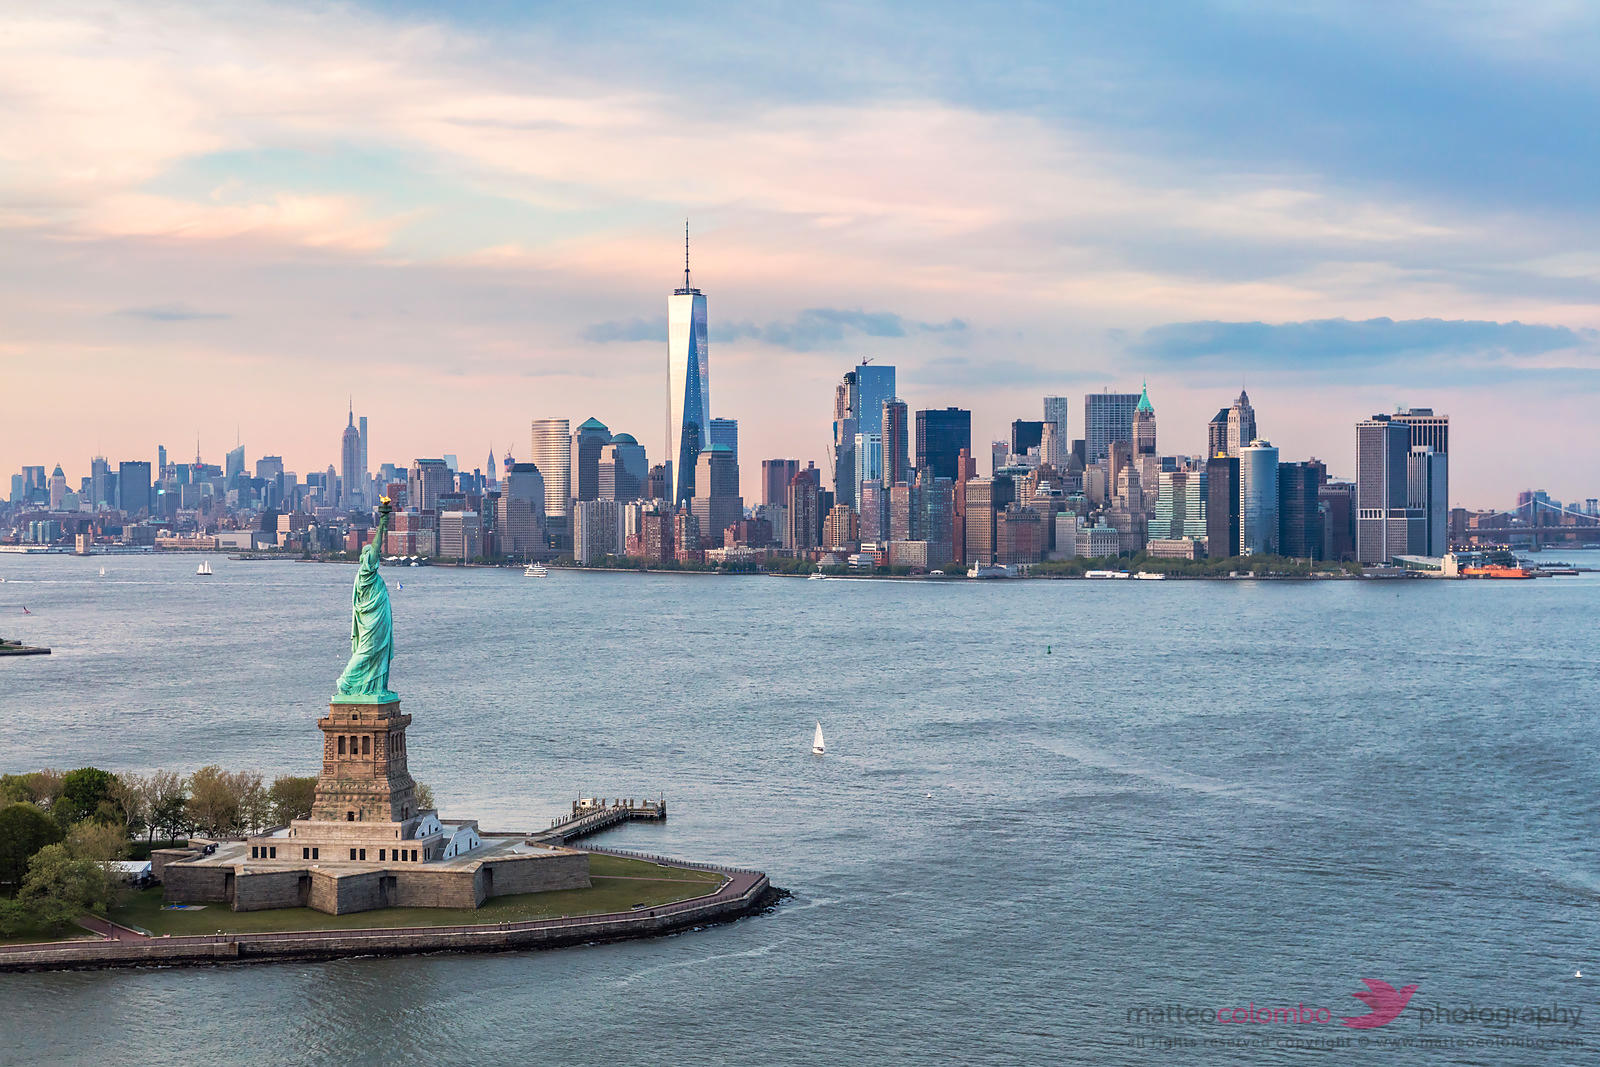
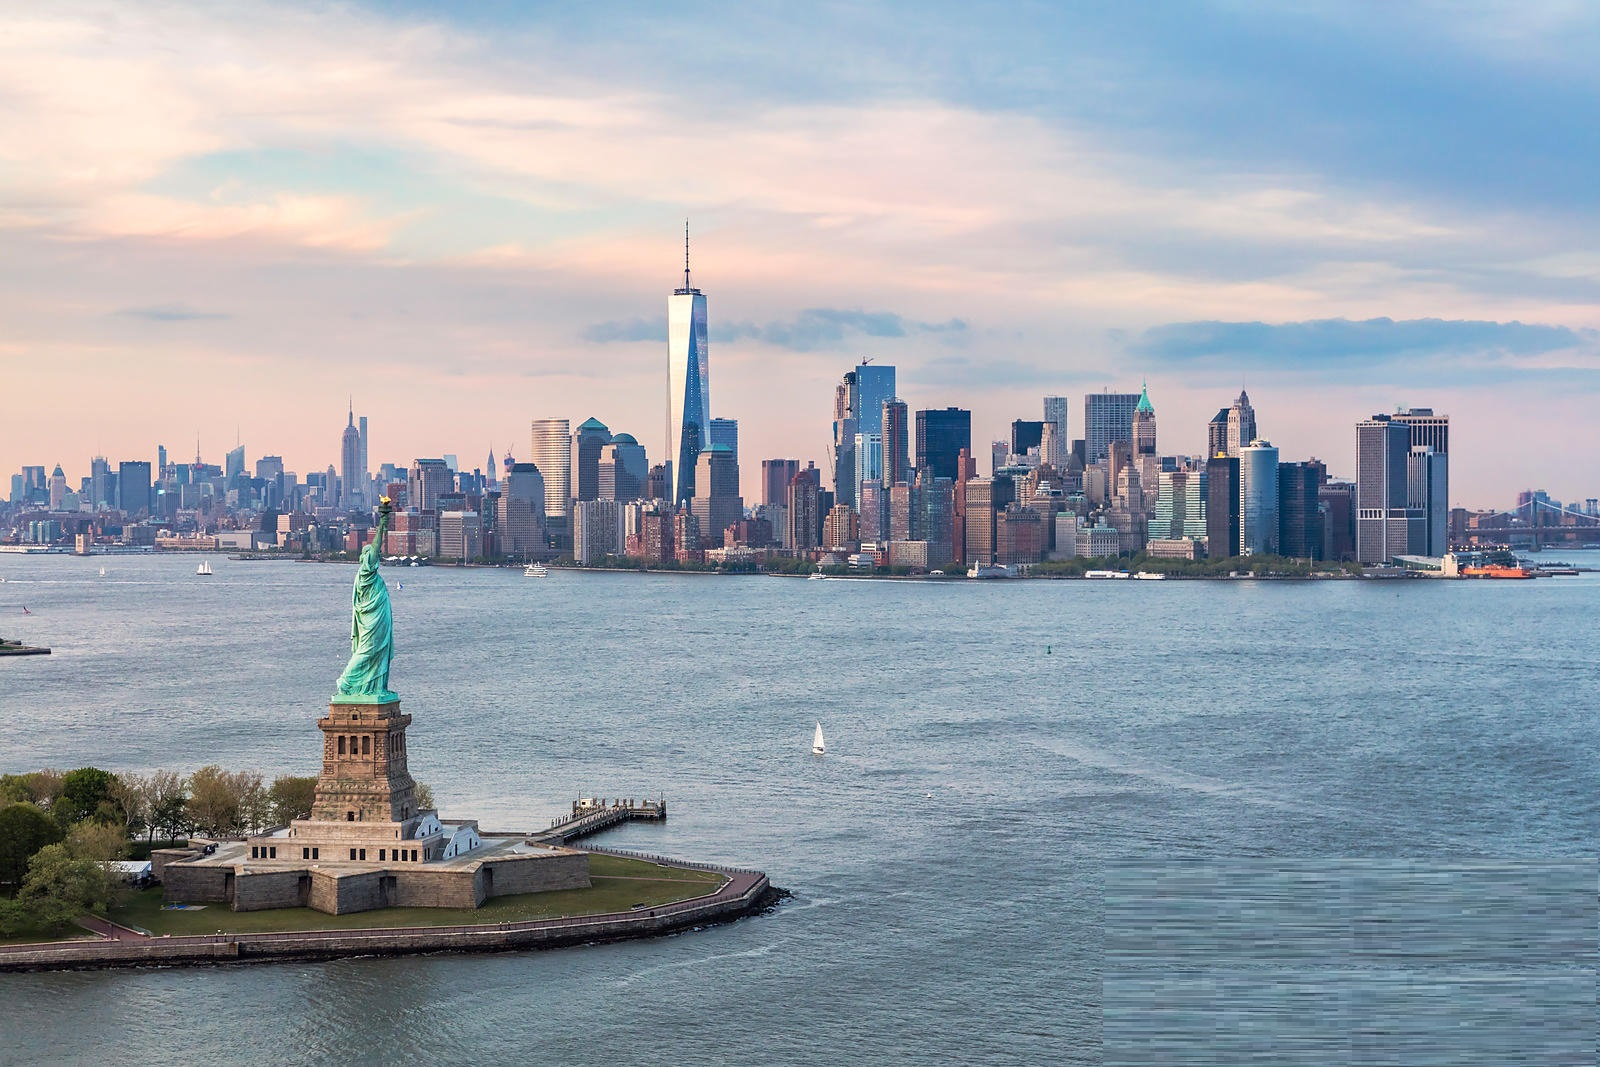
Improved city.html with new font, About button, colors, and image sizing. Edited style block in base.html. Removed commented code from views.py. Improved background jpeg and added apple about button picture. Replaced os.path.join with just templates because Django will find template folder in every 

Changed region(s): [[0.6875, 0.8041, 1.0, 1.0]]

diff --git a/nyc-guide-main/nyc/templates/city.html b/nyc-guide-main/nyc/templates/city.html
@@ -1,28 +1,54 @@
 {% extends 'base.html' %}
 {% load static %}
-<head> 
-    {% block extrastyle %}{% endblock %}
-</head>
+    {% block extrastyle %}
+            <style>
+        @import url('http://fonts.cdnfonts.com/css/broadway-bt');
+            .footer-img{
+                position: absolute;
+                bottom: 0px;
+                transform: translateX(-50%);
+            }
+            .footer-img img{
+                position: relative;
+                top: -5px;
+            }
+            #bg{
+                min-height: 100vh;
+            }
+            body{
+                max-width: 100vw;
+                overflow: hidden;
+            }
+        </style>
+    {% endblock %}
 {% block content %}
-    <div id='bg' style="background-image: url('{% static "images/homepage.jpeg" %}')";>
-        <h1 class="txt">New York City Guide</h1>
+    <div id='bg' style="background-image: url('{% static "images/homepage.jpeg" %}'); background-repeat: no-repeat; background-size: 100% 100%;">
+        <h1 class="txt" style="font-family: Broadway BT; font-size: 75px; color: firebrick;">New York City Guide</h1>
         <h3 class="txt">
             Wondering about fun activities to do in the big city? 
             <br>Check out this
             directory of activities in each borough!
         </h3>
-        <div>
+        <br>
+        {% comment %} <div>
             <br><br><br><br><br><br><br><br><br><br><br>
-        </div>
-        {% for borough in boroughs %}
-        <br><a href="{% url 'borough' borough %}" style="font-size: xx-large; font-weight: bold; color: black";>
-                {{ borough|title }}
+        </div> {% endcomment %}
+        <div class="row">
+            {% for borough in boroughs %}
+            <div class="col">
+                <a href="{% url 'borough' borough %}" style="font-size: xx-large; font-weight: bold; color: firebrick; font-family: Broadway BT">
+                    {{ borough|title }}
                 </a>
-        {% endfor %}
+            </div>
+            {% endfor %}
+        </div>
         
         <div>
             <br><br><br><br><br><br><br><br><br><br><br>
         </div>
-        <br><br><br><a href="{% url 'about' %}" style="font-size: xx-large; font-weight: bold; color: black";>About</a>
+        <br><br><br>
+        <a class="footer-img" href="{% url 'about' %}" style="font-size: xx-large; font-weight: bold; color: black";>
+            <img src="{% static 'images/nyc-apple2.png' %}" width="210px" height="210px">
+        </a>
     </div>
 {% endblock %}

diff --git a/nyc-guide-main/nyc/templates/borough.html b/nyc-guide-main/nyc/templates/borough.html
@@ -9,9 +9,7 @@
                     <div class="card" style="width: 18rem; margin: 10px;">
                         <img class="card-img-top" src="/static/images/{{ categories|keyvalue:activity }}">
                         <div class="card-body">
-                            <h5 class="card-title">{{ place | title }}</h5>
-                            <p class="card-text"></p>
-                            <a href="{% url 'activity' borough activity %}" class="btn btn-primary">{{ activity }}</a>
+                            <a href="{% url 'activity' borough activity %}" class="btn btn-primary">{{ activity|title }}</a>
                         </div>
                     </div>
                 </div>

diff --git a/nyc-guide-main/templates/base.html b/nyc-guide-main/templates/base.html
@@ -1,16 +1,19 @@
 <!DOCTYPE html>
+{% load static %}
 <html>
     <head>
-        {% load static %}
         <meta charset="utf-8">
         <meta name="viewport" content="width=device-width, initial-scale=1">
         <title>{{ place | title }}</title>
         <link rel="stylesheet" href="{% static 'css/bootstrap.min.css' %}">
+        {% block extrastyle %}
+        {% endblock extrastyle %}
+
     </head>
     <body>
-        <div><br><br></div>
+        {% comment %} <div><br><br></div> {% endcomment %}
         <center>
-            <div class="container">
+            <div class="">
                 {% block content %}
                 {% endblock %}
             </div>

diff --git a/nyc-guide-main/nyc/views.py b/nyc-guide-main/nyc/views.py
@@ -4,9 +4,6 @@ from .boroughs import boroughs
 # Home Screen
 def city(request):
     if request.method == 'GET':
-        # borough_img = {
-        #     'brooklyn' : "https://external-content.duckduckgo.com/iu/?u=https%3A%2F%2Fdm0qx8t0i9gc9.cloudfront.net%2Fthumbnails%2Fvideo%2FEyvF0jkPg%2Fvideoblocks-aerial-view-of-the-brooklyn-bridge-to-manhattan-in-new-york-america-through-the-east-river-in-sunny-day_su4fjfbs_thumbnail-1080_01.png&f=1&nofb=1",
-        # }  'images' : borough_img
         return render(request=request, template_name = 'city.html', context = { 'boroughs': boroughs.keys() })
 
 def borough(request, borough):
